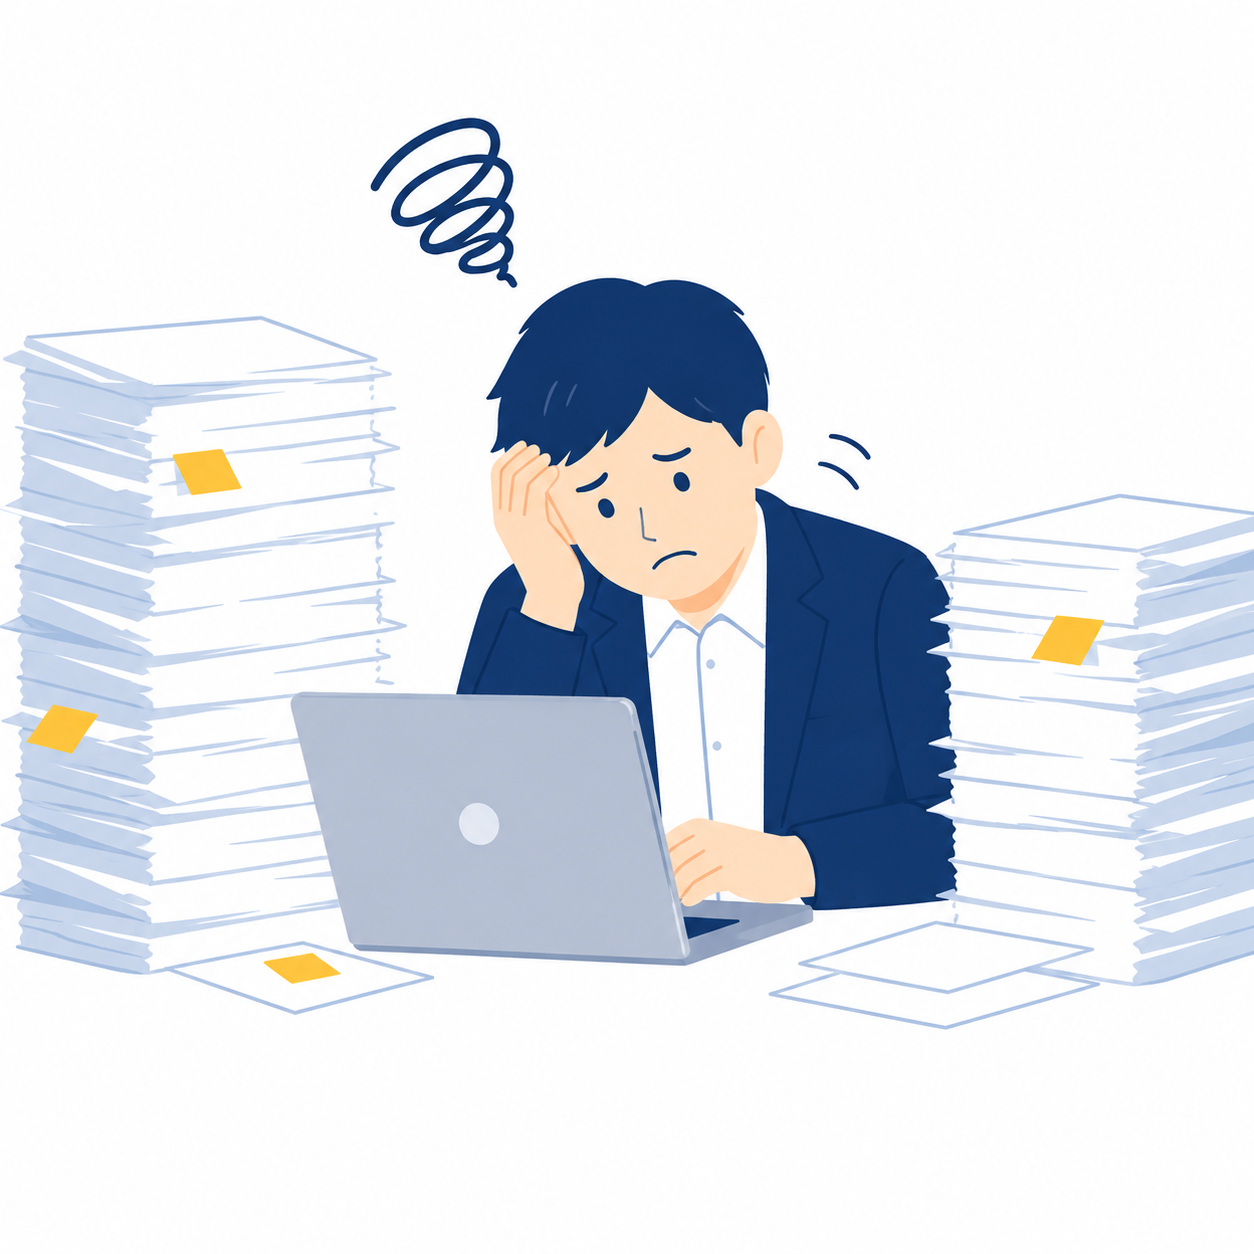
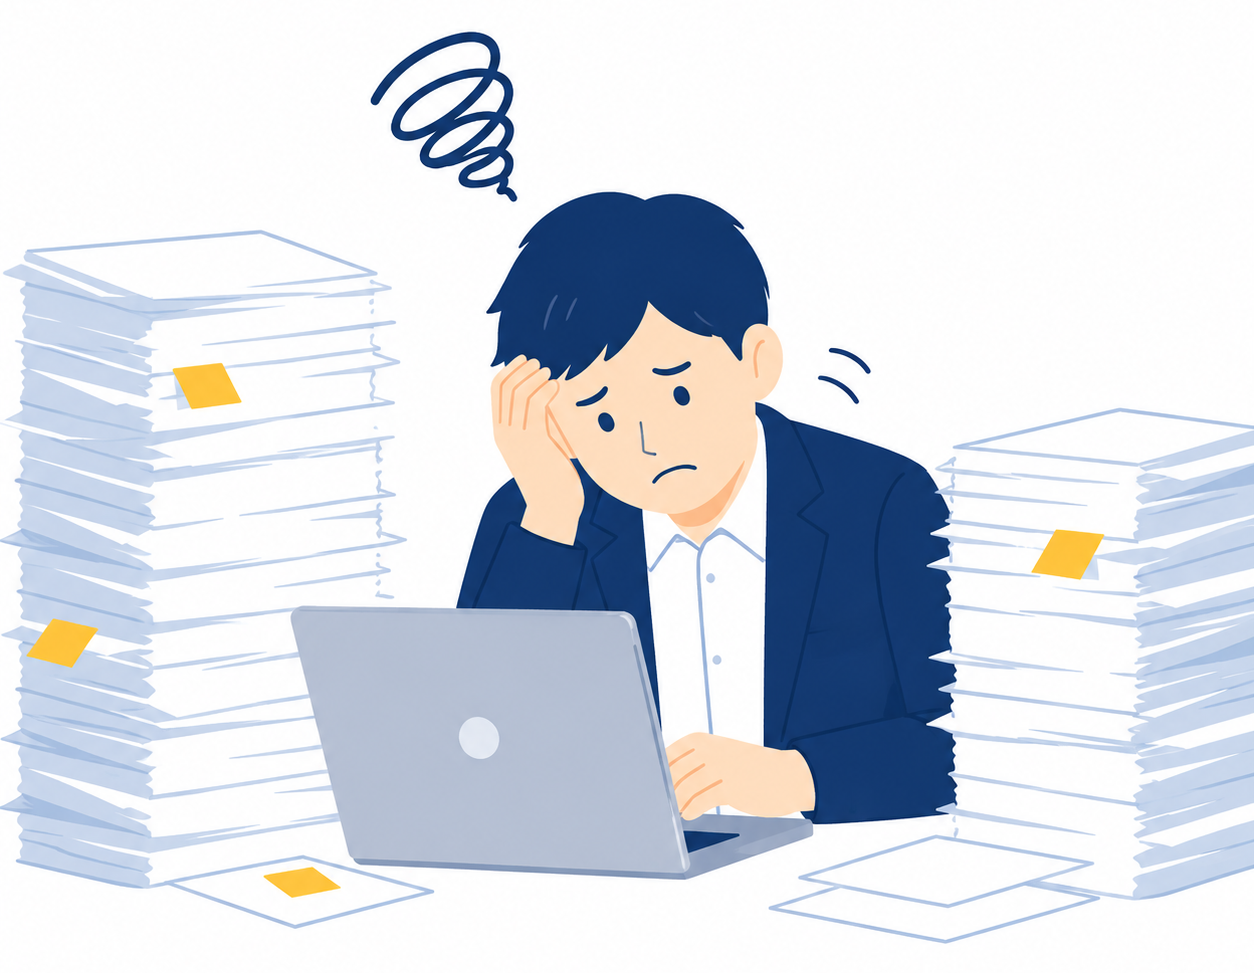
style: イラスト枠の微修正とヒーロー見出しの改行制御
- assets/css/main.css: .illustration-slotから破線ボーダー
  (プレースホルダー時代の名残)を削除し、背景をbg-surface-altから
  bg-whiteに変更してカードに直接馴染むようにした
- public/images/*.png: 各画像の上下の余白をトリミング
  (アスペクト比が1:1から4:3に近い値になり、コンテナ内の
  レターボックスが減少)
- components/ProblemsSection.vue, FlowSection.vue: トリミング後の
  実寸に合わせてimgのwidth/height属性を更新(CLS防止の精度を維持)
- components/HeroSection.vue: 見出しの改行が文節の途中(「なくし」と
  「ませんか」の間など)で起きないよう、意味の区切りに<wbr>を配置し
  word-break: keep-all / overflow-wrap: break-wordを指定。
  あわせて、flexコンテナ内でh1が縮まずオーバーフローしていた
  不具合(align-items:centerによるfit-content幅計算)をw-full指定で解消

機能・文言の変更はしていない

Changed region(s): [[0.0, 0.2158, 1.0, 0.9866], [0.2799, 0.0308, 0.5909, 0.2775], [0.5909, 0.2467, 0.622, 0.2775]]

diff --git a/components/HeroSection.vue b/components/HeroSection.vue
@@ -19,13 +19,29 @@ const titleParts = computed(() => {
     after: props.title.slice(index + props.highlight.length),
   }
 })
+
+// 折り返しが文節の途中で起きないよう、意味の区切りで分割する
+// (この分割はhero.titleの内容に依存するため、想定外のテキストが
+// 来た場合はhighlightSegmentsが1要素のフォールバックになる)
+const highlightSegments = computed(() => {
+  const [seg1, seg2] = ['その手作業を', 'AIで']
+  const seg3 = titleParts.value.highlight.slice(seg1.length + seg2.length)
+  if (seg1 + seg2 + seg3 !== titleParts.value.highlight) return [titleParts.value.highlight]
+  return [seg1, seg2, seg3]
+})
 </script>
 
 <template>
   <section class="border-b border-line">
     <div class="section flex flex-col items-center py-24 text-center sm:py-32">
-      <h1 class="max-w-2xl text-4xl leading-snug sm:text-5xl">
-        {{ titleParts.before }}<span v-if="titleParts.highlight" class="marker-highlight">{{ titleParts.highlight }}</span>{{ titleParts.after }}
+      <h1 class="w-full max-w-2xl text-4xl leading-snug sm:text-5xl [word-break:keep-all] [overflow-wrap:break-word]">
+        {{ titleParts.before }}<wbr /><span
+          v-if="titleParts.highlight"
+          class="marker-highlight"
+        ><template
+          v-for="(seg, i) in highlightSegments"
+          :key="i"
+        >{{ seg }}<wbr v-if="i < highlightSegments.length - 1" /></template></span>{{ titleParts.after }}
       </h1>
 
       <p class="mt-6 max-w-xl text-base leading-[1.9] text-body">

diff --git a/components/ProblemsSection.vue b/components/ProblemsSection.vue
@@ -7,9 +7,9 @@ defineProps<{
 }>()
 
 const illustrations = [
-  { src: '/images/problem-manual-work.png', alt: '書類の山とパソコンを前に困っている人のイラスト' },
-  { src: '/images/problem-inquiries.png', alt: '電話とメールの対応に追われ困っている人のイラスト' },
-  { src: '/images/problem-ai-confusion.png', alt: 'AI活用について悩んでいる人のイラスト' },
+  { src: '/images/problem-manual-work.png', alt: '書類の山とパソコンを前に困っている人のイラスト', width: 1254, height: 973 },
+  { src: '/images/problem-inquiries.png', alt: '電話とメールの対応に追われ困っている人のイラスト', width: 1254, height: 935 },
+  { src: '/images/problem-ai-confusion.png', alt: 'AI活用について悩んでいる人のイラスト', width: 1254, height: 886 },
 ]
 </script>
 
@@ -31,8 +31,8 @@ const illustrations = [
             <img
               :src="illustrations[index].src"
               :alt="illustrations[index].alt"
-              width="1254"
-              height="1254"
+              :width="illustrations[index].width"
+              :height="illustrations[index].height"
               loading="lazy"
               class="h-full w-full object-contain"
             />

diff --git a/components/FlowSection.vue b/components/FlowSection.vue
@@ -8,9 +8,9 @@ const props = defineProps<{
 }>()
 
 const illustrations = [
-  { src: '/images/flow-consultation.png', alt: 'オンラインで相談している人のイラスト' },
-  { src: '/images/flow-report-review.png', alt: 'レポートを確認している人のイラスト' },
-  { src: '/images/flow-success.png', alt: '成果が出て喜んでいる人のイラスト' },
+  { src: '/images/flow-consultation.png', alt: 'オンラインで相談している人のイラスト', width: 1254, height: 832 },
+  { src: '/images/flow-report-review.png', alt: 'レポートを確認している人のイラスト', width: 1254, height: 954 },
+  { src: '/images/flow-success.png', alt: '成果が出て喜んでいる人のイラスト', width: 1254, height: 1028 },
 ]
 
 const containerEl = ref<HTMLElement | null>(null)
@@ -137,8 +137,8 @@ onUnmounted(() => {
               <img
                 :src="illustrations[index].src"
                 :alt="illustrations[index].alt"
-                width="1254"
-                height="1254"
+                :width="illustrations[index].width"
+                :height="illustrations[index].height"
                 loading="lazy"
                 class="h-full w-full object-contain"
               />

diff --git a/assets/css/main.css b/assets/css/main.css
@@ -73,7 +73,7 @@
   }
 
   .illustration-slot {
-    @apply flex aspect-[4/3] w-full items-center justify-center rounded-lg border border-dashed border-navy/25 bg-surface-alt text-xs text-body;
+    @apply flex aspect-[4/3] w-full items-center justify-center rounded-lg bg-white text-xs text-body;
   }
 }
 
